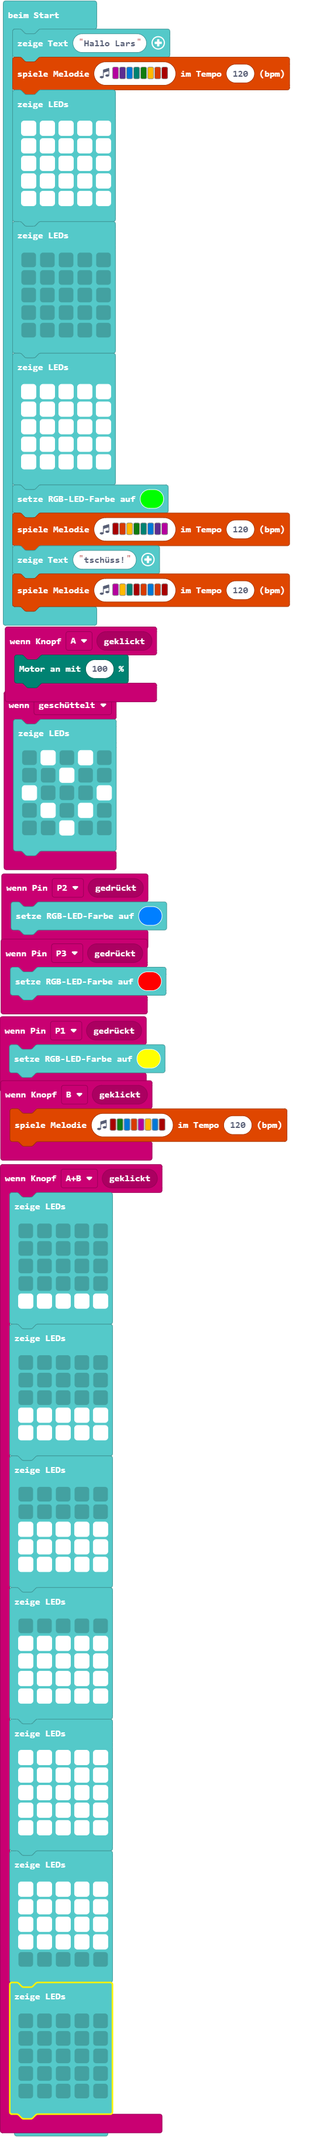
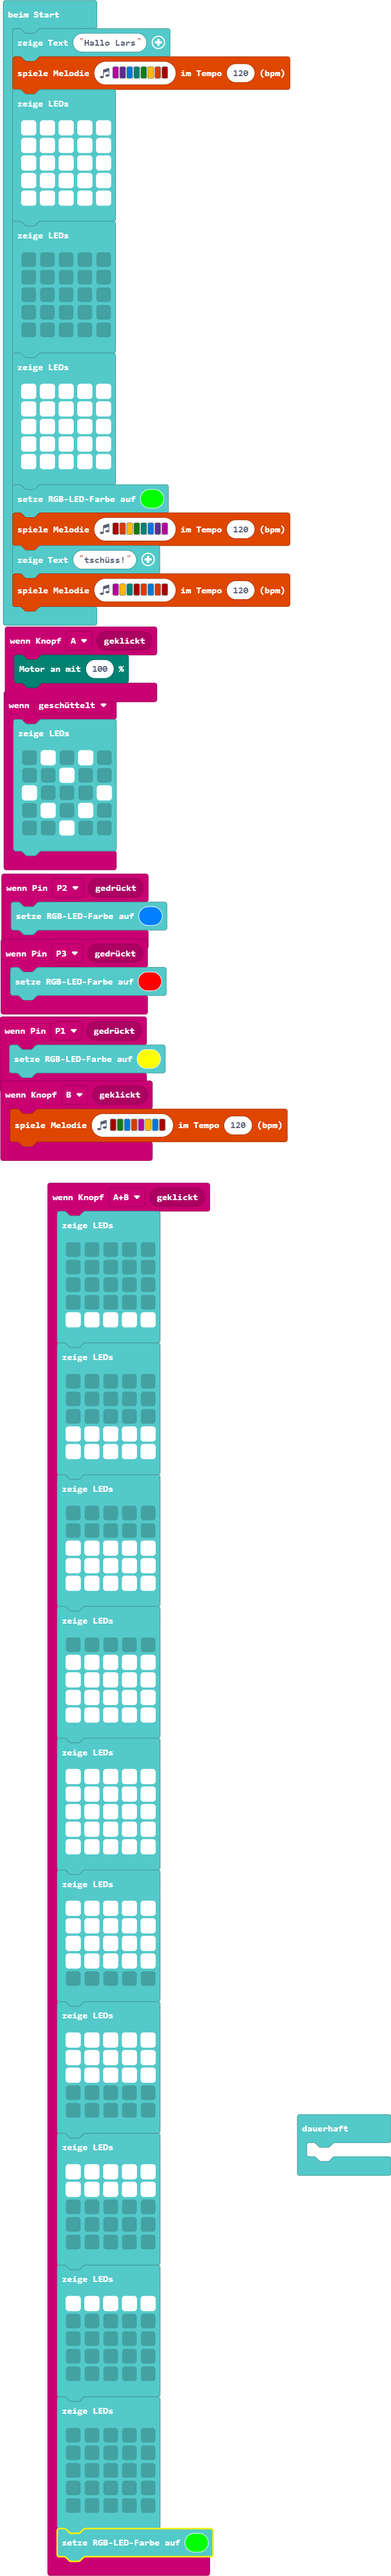
Aktualisiere main.blocks, main.ts

diff --git a/main.ts b/main.ts
@@ -48,12 +48,34 @@ input.onButtonEvent(Button.AB, input.buttonEventClick(), function () {
         . . . . .
         `)
     basic.showLeds(`
+        # # # # #
+        # # # # #
+        # # # # #
+        . . . . .
+        . . . . .
+        `)
+    basic.showLeds(`
+        # # # # #
+        # # # # #
+        . . . . .
+        . . . . .
+        . . . . .
+        `)
+    basic.showLeds(`
+        # # # # #
+        . . . . .
+        . . . . .
+        . . . . .
+        . . . . .
+        `)
+    basic.showLeds(`
         . . . . .
         . . . . .
         . . . . .
         . . . . .
         . . . . .
         `)
+    basic.setLedColor(0x00ff00)
 })
 input.onButtonEvent(Button.B, input.buttonEventClick(), function () {
     music.playMelody("C5 G E B C A E C5 ", 120)
